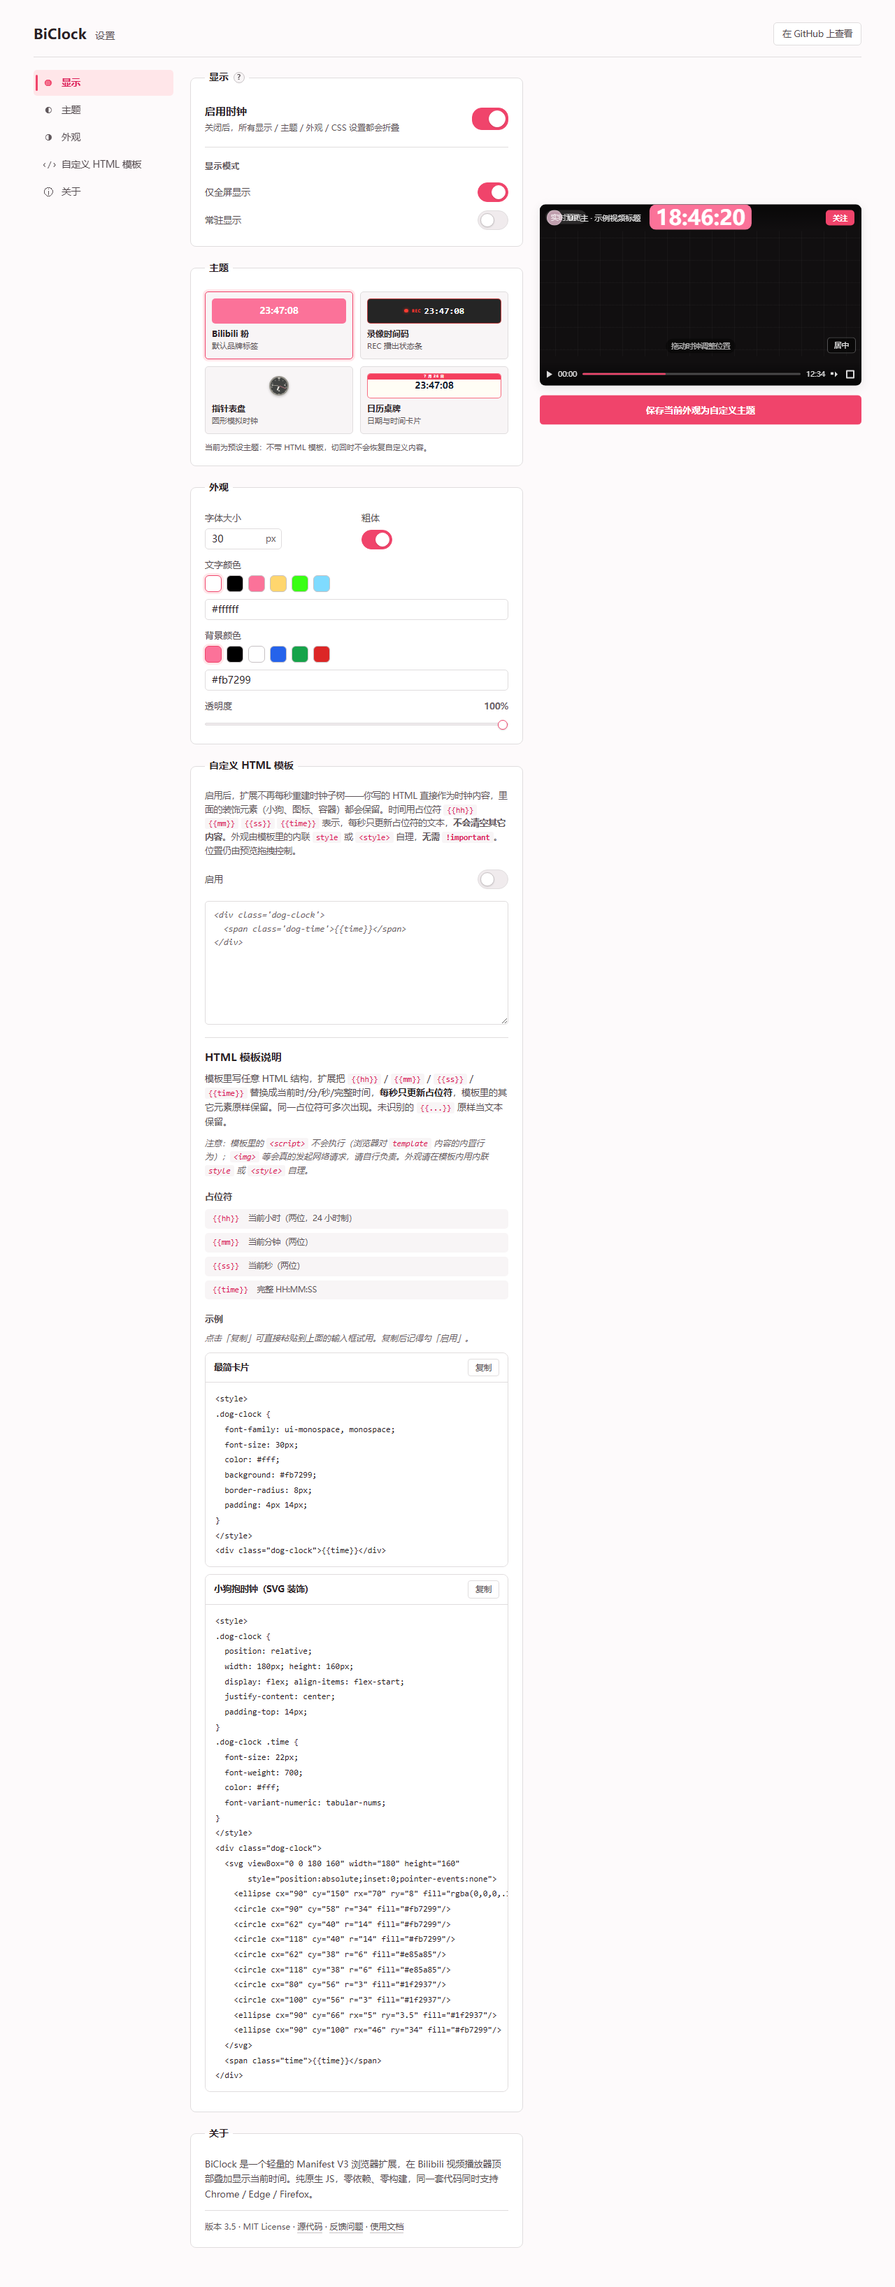
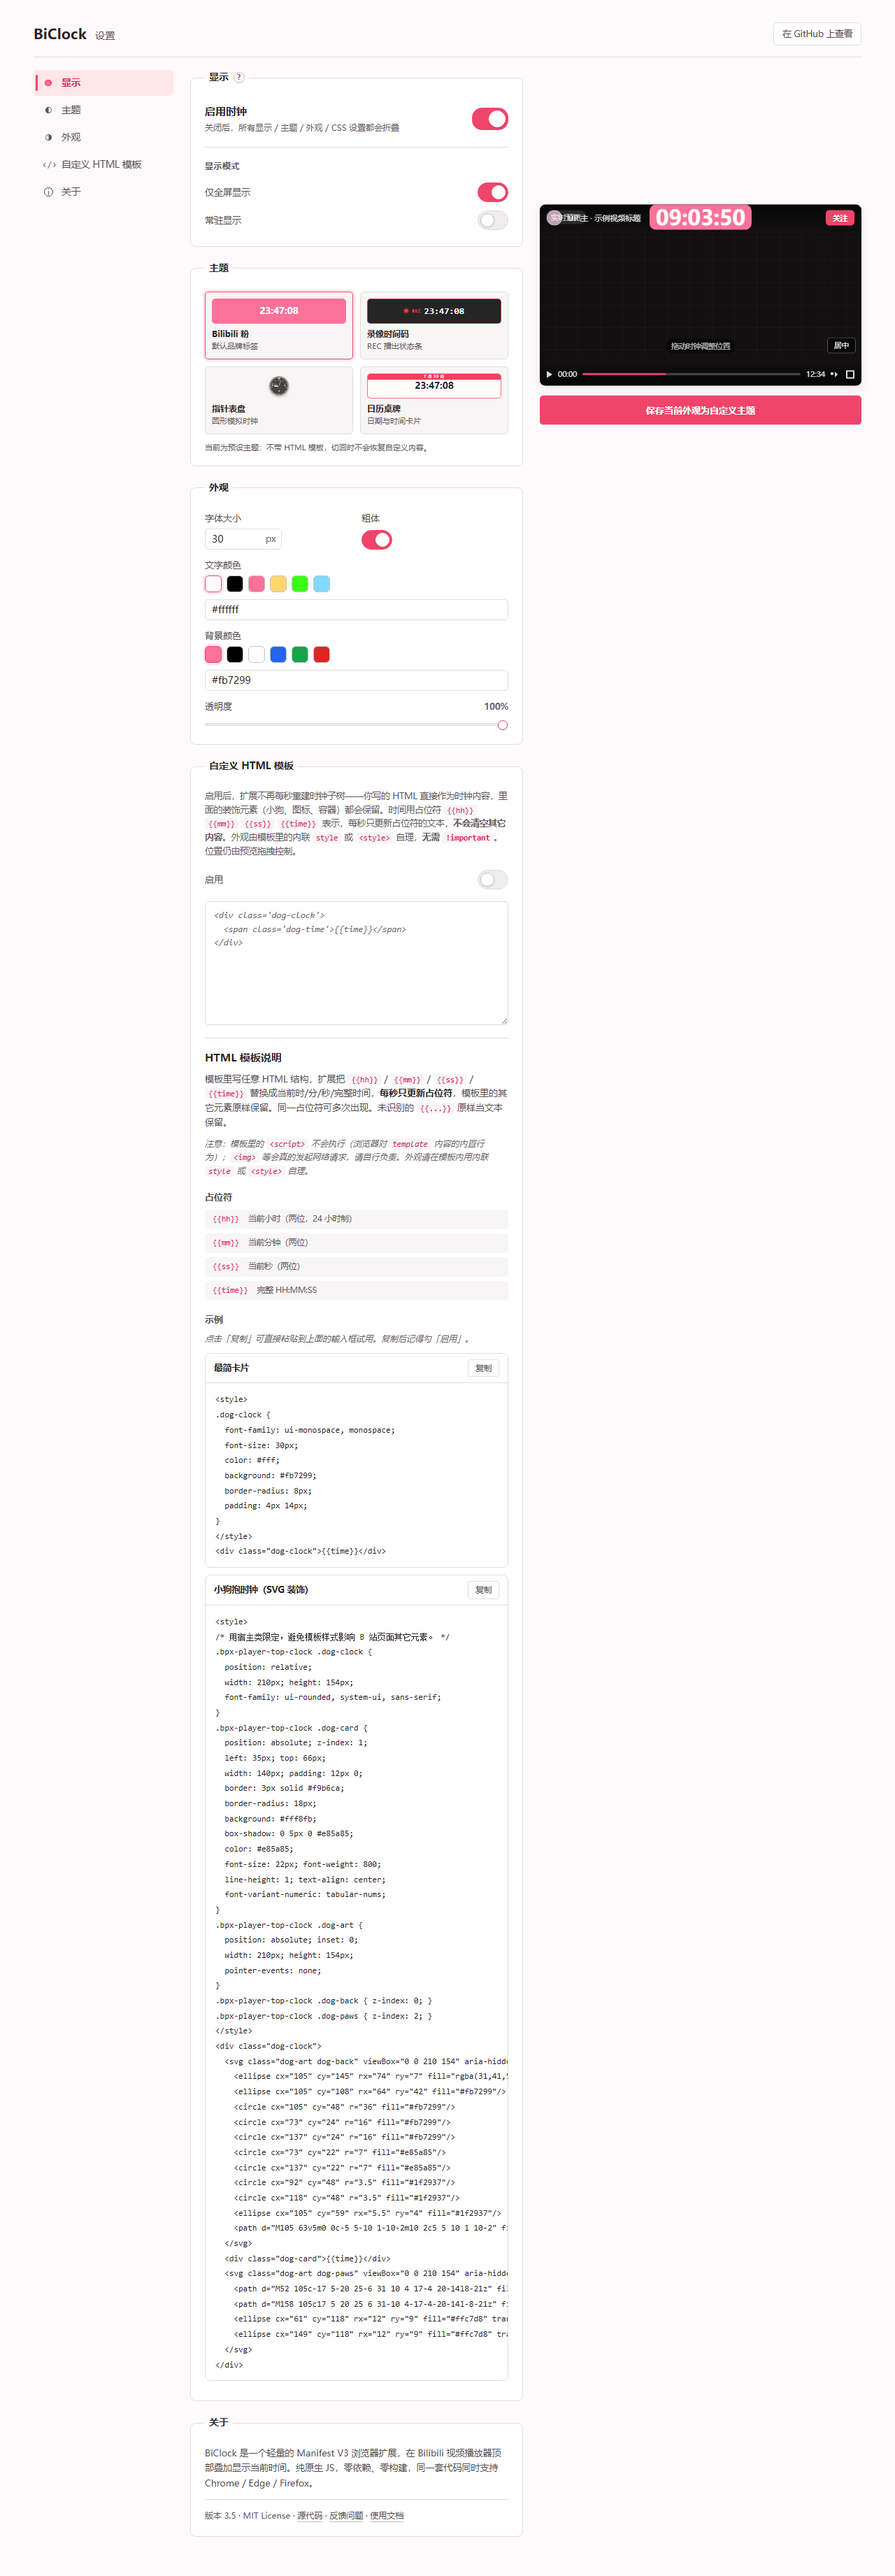
fix(template): render dog clock above artwork

diff --git a/options.html b/options.html
@@ -226,35 +226,54 @@
                         <button type="button" class="copy-btn" data-copy="html-dog">复制</button>
                     </div>
                     <pre class="docs-code" id="code-html-dog"><code>&lt;style&gt;
-.dog-clock {
+/* 用宿主类限定，避免模板样式影响 B 站页面其它元素。 */
+.bpx-player-top-clock .dog-clock {
   position: relative;
-  width: 180px; height: 160px;
-  display: flex; align-items: flex-start;
-  justify-content: center;
-  padding-top: 14px;
+  width: 210px; height: 154px;
+  font-family: ui-rounded, system-ui, sans-serif;
 }
-.dog-clock .time {
-  font-size: 22px;
-  font-weight: 700;
-  color: #fff;
+.bpx-player-top-clock .dog-card {
+  position: absolute; z-index: 1;
+  left: 35px; top: 66px;
+  width: 140px; padding: 12px 0;
+  border: 3px solid #f9b6ca;
+  border-radius: 18px;
+  background: #fff8fb;
+  box-shadow: 0 5px 0 #e85a85;
+  color: #e85a85;
+  font-size: 22px; font-weight: 800;
+  line-height: 1; text-align: center;
   font-variant-numeric: tabular-nums;
 }
+.bpx-player-top-clock .dog-art {
+  position: absolute; inset: 0;
+  width: 210px; height: 154px;
+  pointer-events: none;
+}
+.bpx-player-top-clock .dog-back { z-index: 0; }
+.bpx-player-top-clock .dog-paws { z-index: 2; }
 &lt;/style&gt;
 &lt;div class="dog-clock"&gt;
-  &lt;svg viewBox="0 0 180 160" width="180" height="160"
-       style="position:absolute;inset:0;pointer-events:none"&gt;
-    &lt;ellipse cx="90" cy="150" rx="70" ry="8" fill="rgba(0,0,0,.15)"/&gt;
-    &lt;circle cx="90" cy="58" r="34" fill="#fb7299"/&gt;
-    &lt;circle cx="62" cy="40" r="14" fill="#fb7299"/&gt;
-    &lt;circle cx="118" cy="40" r="14" fill="#fb7299"/&gt;
-    &lt;circle cx="62" cy="38" r="6" fill="#e85a85"/&gt;
-    &lt;circle cx="118" cy="38" r="6" fill="#e85a85"/&gt;
-    &lt;circle cx="80" cy="56" r="3" fill="#1f2937"/&gt;
-    &lt;circle cx="100" cy="56" r="3" fill="#1f2937"/&gt;
-    &lt;ellipse cx="90" cy="66" rx="5" ry="3.5" fill="#1f2937"/&gt;
-    &lt;ellipse cx="90" cy="100" rx="46" ry="34" fill="#fb7299"/&gt;
+  &lt;svg class="dog-art dog-back" viewBox="0 0 210 154" aria-hidden="true"&gt;
+    &lt;ellipse cx="105" cy="145" rx="74" ry="7" fill="rgba(31,41,55,.16)"/&gt;
+    &lt;ellipse cx="105" cy="108" rx="64" ry="42" fill="#fb7299"/&gt;
+    &lt;circle cx="105" cy="48" r="36" fill="#fb7299"/&gt;
+    &lt;circle cx="73" cy="24" r="16" fill="#fb7299"/&gt;
+    &lt;circle cx="137" cy="24" r="16" fill="#fb7299"/&gt;
+    &lt;circle cx="73" cy="22" r="7" fill="#e85a85"/&gt;
+    &lt;circle cx="137" cy="22" r="7" fill="#e85a85"/&gt;
+    &lt;circle cx="92" cy="48" r="3.5" fill="#1f2937"/&gt;
+    &lt;circle cx="118" cy="48" r="3.5" fill="#1f2937"/&gt;
+    &lt;ellipse cx="105" cy="59" rx="5.5" ry="4" fill="#1f2937"/&gt;
+    &lt;path d="M105 63v5m0 0c-5 5-10 1-10-2m10 2c5 5 10 1 10-2" fill="none" stroke="#1f2937" stroke-width="2.5" stroke-linecap="round"/&gt;
   &lt;/svg&gt;
-  &lt;span class="time"&gt;{{time}}&lt;/span&gt;
+  &lt;div class="dog-card"&gt;{{time}}&lt;/div&gt;
+  &lt;svg class="dog-art dog-paws" viewBox="0 0 210 154" aria-hidden="true"&gt;
+    &lt;path d="M52 105c-17 5-20 25-6 31 10 4 17-4 20-14l8-21z" fill="#fb7299"/&gt;
+    &lt;path d="M158 105c17 5 20 25 6 31-10 4-17-4-20-14l-8-21z" fill="#fb7299"/&gt;
+    &lt;ellipse cx="61" cy="118" rx="12" ry="9" fill="#ffc7d8" transform="rotate(-25 61 118)"/&gt;
+    &lt;ellipse cx="149" cy="118" rx="12" ry="9" fill="#ffc7d8" transform="rotate(25 149 118)"/&gt;
+  &lt;/svg&gt;
 &lt;/div&gt;</code></pre>
                 </div>
             </section>

diff --git a/shared.js b/shared.js
@@ -91,8 +91,12 @@ var THEME_CSS_KEYS = ['customHtml', 'customHtmlEnabled'];
 // 注意：position / left / top / transform / zIndex / userSelect 不在此列——
 // 它们属于定位/交互层，两种模式下都由 JS 计算，用户 HTML 模板只专注外观。
 var APPEARANCE_INLINE_KEYS = [
-    'color', 'backgroundColor', 'fontWeight', 'fontFamily', 'fontSize',
-    'textShadow', 'border', 'padding', 'borderRadius', 'boxSizing'
+    // CSSStyleDeclaration.removeProperty() 只接受 CSS 属性名，不能传
+    // backgroundColor / fontSize 这样的 JS 驼峰名；传驼峰名会静默失败，
+    // 使 HTML 模板模式残留原先的宿主背景、字体和圆角，且预览与真实页面
+    // 因各自基础样式不同而渲染不一致。
+    'color', 'background-color', 'font-weight', 'font-family', 'font-size',
+    'text-shadow', 'border', 'padding', 'border-radius', 'box-sizing'
 ];
 
 function pad(n) {
